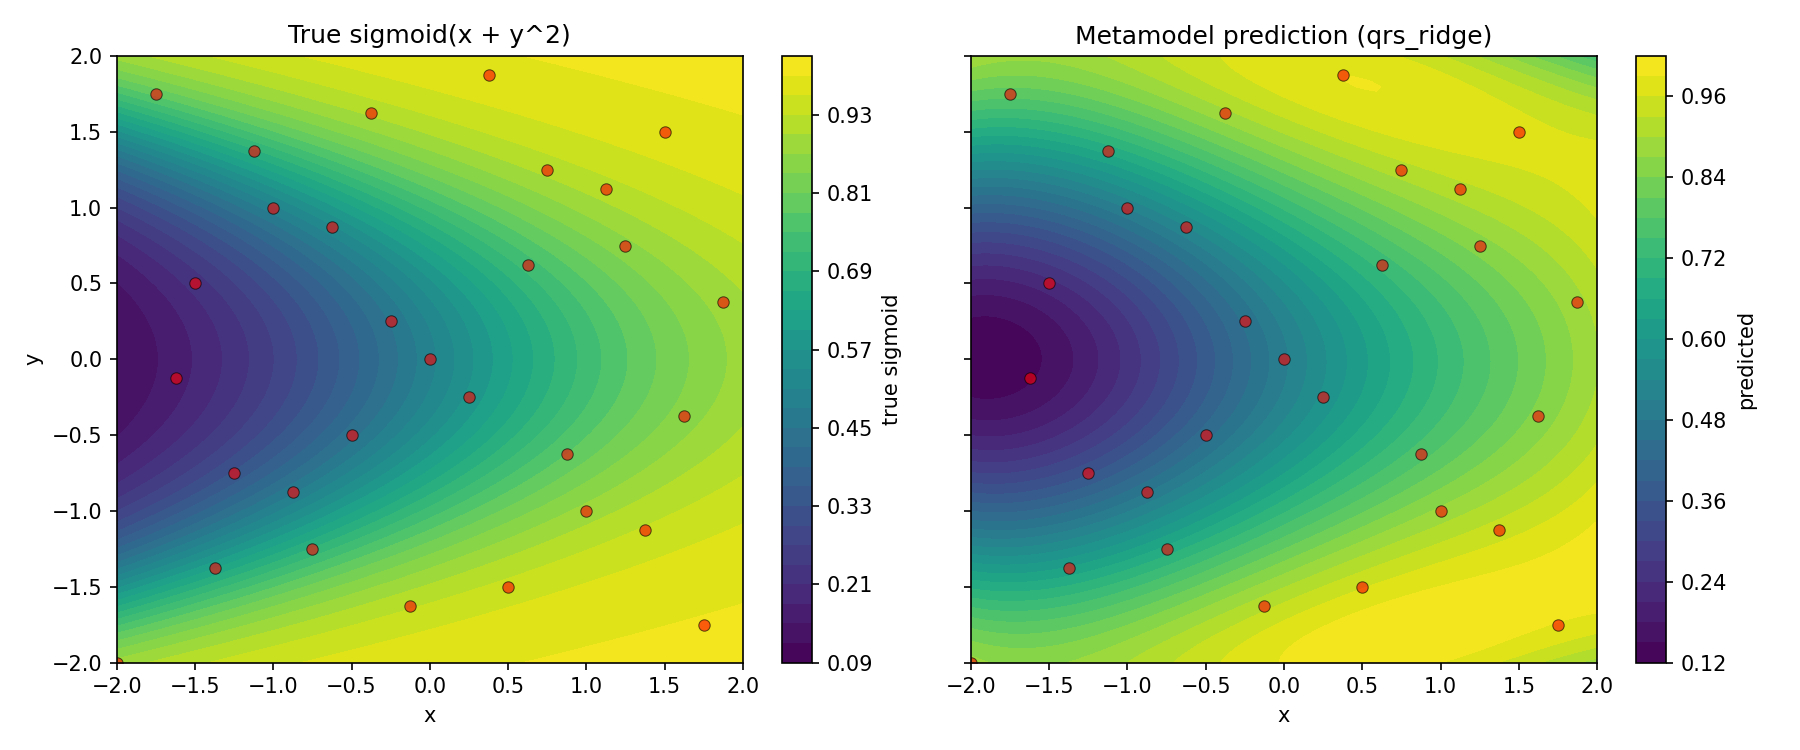
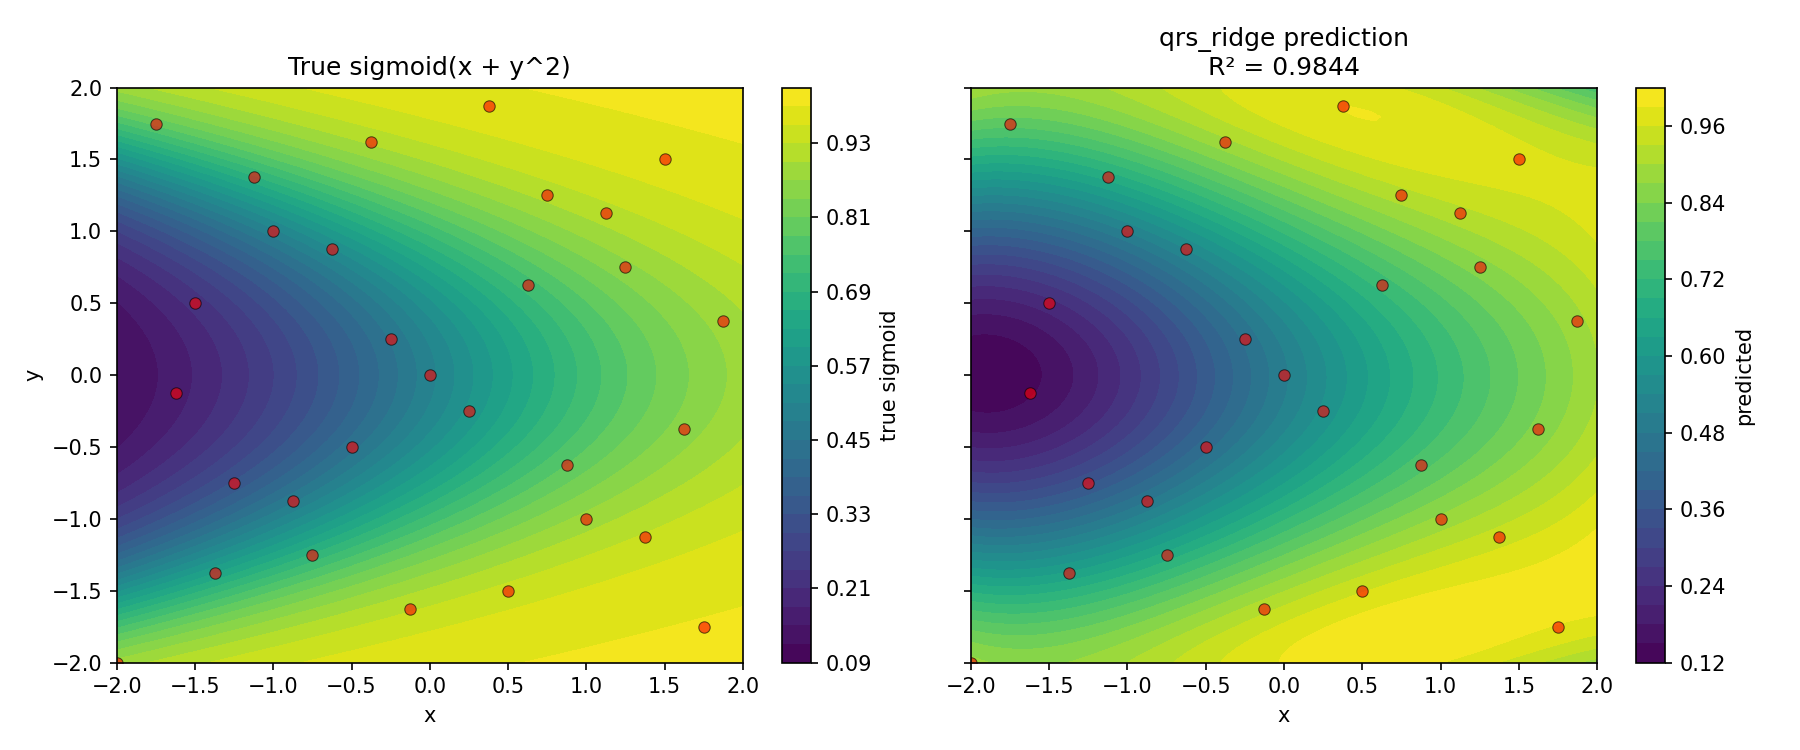
Add R² and sparsity display to metamodel plots; regenerate plots

diff --git a/scripts/generate_metamodel_sigmoid.py b/scripts/generate_metamodel_sigmoid.py
@@ -36,6 +36,17 @@ def run_case(case_name: str, doe_type: str, N: int, model, grid_points_physical:
     
     model.train(X_train, sampler.Y)
 
+    # Extract sparsity info for lasso models (capture from training output)
+    sparsity_info = ""
+    if case_name == "lhs_lasso" and hasattr(model, 'coeff_'):
+        coeff = model.coeff_
+        if coeff.ndim == 2:
+            coeff = coeff[0]
+        n_nonzero = np.count_nonzero(coeff)
+        n_total = coeff.size
+        sparsity_ratio = (n_total - n_nonzero) / n_total
+        sparsity_info = f"\nSparsity: {sparsity_ratio:.1%}"
+
     # Plot training samples (colored by sigmoid output) in physical space
     prediction_plot(
         X=sampler.X,
@@ -54,6 +65,11 @@ def run_case(case_name: str, doe_type: str, N: int, model, grid_points_physical:
     Z_pred = preds[:, 1].reshape(Xg_phys.shape)
     Z_true = sigmoid_qoi(grid_points_physical)[:, 1].reshape(Xg_phys.shape)
 
+    # Compute R²
+    ss_res = np.sum((Z_true.ravel() - Z_pred.ravel()) ** 2)
+    ss_tot = np.sum((Z_true.ravel() - np.mean(Z_true.ravel())) ** 2)
+    r2 = 1.0 - (ss_res / ss_tot)
+
     # Plot on physical space
     fig, axes = plt.subplots(1, 2, figsize=(12, 5), sharex=True, sharey=True)
     cs0 = axes[0].contourf(Xg_phys, Yg_phys, Z_true, levels=30, cmap="viridis")
@@ -66,14 +82,16 @@ def run_case(case_name: str, doe_type: str, N: int, model, grid_points_physical:
     cs1 = axes[1].contourf(Xg_phys, Yg_phys, Z_pred, levels=30, cmap="viridis")
     fig.colorbar(cs1, ax=axes[1], label="predicted")
     axes[1].scatter(sampler.X[:, 0], sampler.X[:, 1], s=30, alpha=0.6, c='red', edgecolors='k', linewidth=0.5)
-    axes[1].set_title(f"Metamodel prediction ({case_name})")
+    axes[1].set_title(f"{case_name} prediction\nR² = {r2:.4f}{sparsity_info}")
     axes[1].set_xlabel("x")
 
     plt.tight_layout()
     plt.savefig(f"plots/mm_sigmoid_prediction_{case_name}.png", dpi=150)
     plt.close()
 
-    print(f"Saved plots for {case_name} ({space_label}) -> plots/mm_sigmoid_samples_{case_name}.png and plots/mm_sigmoid_prediction_{case_name}.png")
+    print(f"✓ {case_name:15s} (R² = {r2:.4f}){sparsity_info}")
+    print(f"  Samples: plots/mm_sigmoid_samples_{case_name}.png")
+    print(f"  Predict: plots/mm_sigmoid_prediction_{case_name}.png\n")
 
 
 def main() -> None:

diff --git a/scripts/generate_metamodel_qrs_comparison.py b/scripts/generate_metamodel_qrs_comparison.py
@@ -96,9 +96,10 @@ def run_case(
     Z_pred = preds[:, 1].reshape(Xg_phys.shape)
     Z_true = sigmoid_qoi(grid_points_physical)[:, 1].reshape(Xg_phys.shape)
 
-    # Compute R² on test set
-    test_r2 = np.mean((Z_true.ravel() - Z_pred.ravel()) ** 2)
-    r2_simple = 1.0 - test_r2 / np.var(Z_true)
+    # Compute R²
+    ss_res = np.sum((Z_true.ravel() - Z_pred.ravel()) ** 2)
+    ss_tot = np.sum((Z_true.ravel() - np.mean(Z_true.ravel())) ** 2)
+    r2 = 1.0 - (ss_res / ss_tot)
 
     # Plot on physical space
     fig, axes = plt.subplots(1, 2, figsize=(12, 5), sharex=True, sharey=True)
@@ -112,16 +113,14 @@ def run_case(
     cs1 = axes[1].contourf(Xg_phys, Yg_phys, Z_pred, levels=30, cmap="viridis")
     fig.colorbar(cs1, ax=axes[1], label="predicted")
     axes[1].scatter(sampler.X[:, 0], sampler.X[:, 1], s=30, alpha=0.6, c='red', edgecolors='k', linewidth=0.5)
-    axes[1].set_title(f"{case_name.upper()} prediction (R²={r2_simple:.3f})")
+    axes[1].set_title(f"{case_name.upper()} prediction\nR² = {r2:.4f}")
     axes[1].set_xlabel("x")
 
     plt.tight_layout()
     plt.savefig(f"plots/mm_sigmoid_prediction_qrs_{case_name}.png", dpi=150)
     plt.close()
 
-    print(f"  ✓ {case_name.upper()} R² = {r2_simple:.3f}")
-    print(f"    Saved: plots/mm_sigmoid_samples_qrs_{case_name}.png")
-    print(f"            plots/mm_sigmoid_prediction_qrs_{case_name}.png\n")
+    print(f"  ✓ {case_name.upper():6s} R² = {r2:.4f}")
 
 
 def main() -> None:
